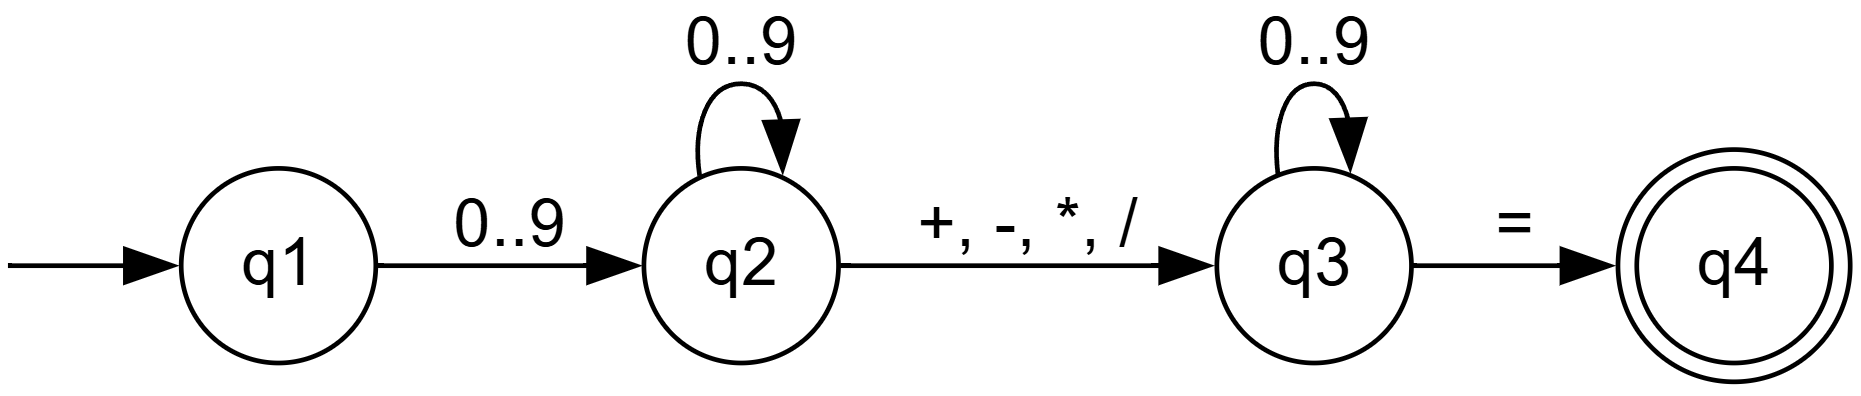
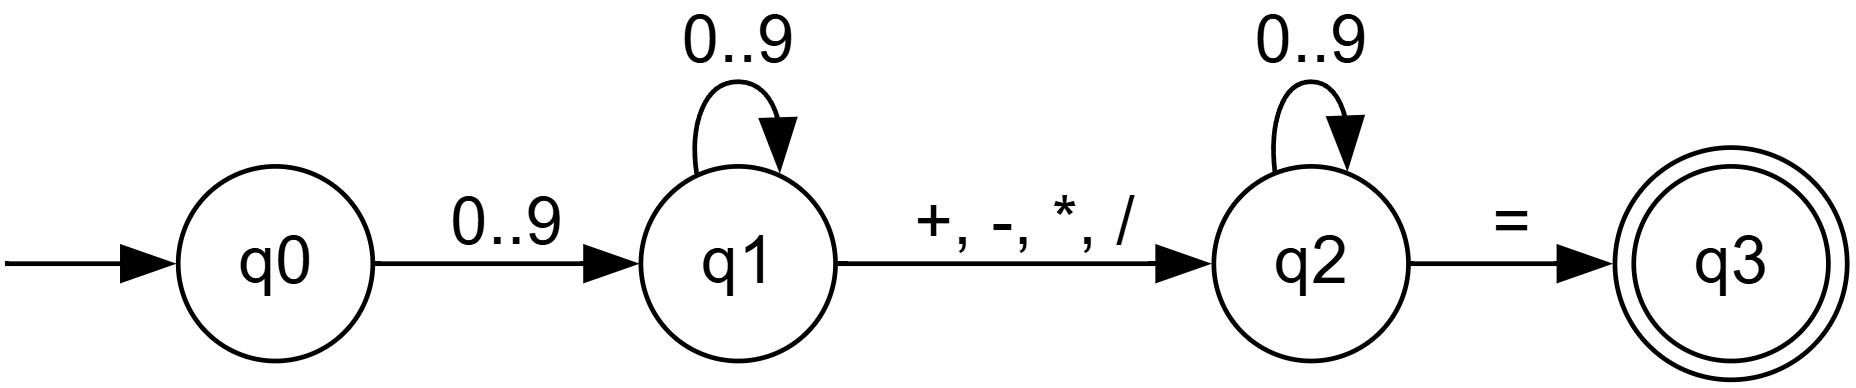
Lecture about FSM fixed

diff --git a/s1/09.html b/s1/09.html
@@ -64,7 +64,7 @@
                         <ul>
                             <li>Частой задачей в вычислительной технике является обработка некоторых последовательностей</li>
                             <li>Мы уже рассмотрели сортировку, поиск и т.п.</li>
-                            <li>Но последовательности могут содержать не только неокторые объекты, но также, например, действия пользователя</li>
+                            <li>Но последовательности могут содержать не только неокторые сравнимые объекты, но также, например, действия пользователя</li>
                             <li>В таких случаях важно понять, является ли заданная последовательность &laquo;действий&raquo; <b>корректной</b> для конкретного исполнителя</li>
                         </ul>
                     </section>
@@ -167,8 +167,8 @@
                     <section>
                         <h4>Состояния</h4>
                         <ul>
-                            <li>Состояние $q1$ называется <b>начальным</b>, это точка входа</li>
-                            <li>Состояние $q4$ — <b>конечное</b> или <b>принимающее</b></li>
+                            <li>Состояние $q_0$ называется <b>начальным</b>, это точка входа</li>
+                            <li>Состояние $q_3$ — <b>конечное</b> или <b>принимающее</b></li>
                             <li>Когда автомат достигает конечного состояния, считав при этом всю строку, это значит, что строка <b>принята</b></li>
                         </ul>
                     </section>
@@ -225,11 +225,11 @@
                     <section>
                         <h3>Пример функции переходов</h3>
                         <p align="left">Приведём пример функции переходов для калькулятора</p>
-                        <p>$\delta(q_1, 0..9) = q_2$</p>
+                        <p>$\delta(q_0, 0..9) = q_1$</p>
+                        <p>$\delta(q_1, 0..9) = q_1$</p>
+                        <p>$\delta(q_1, \{+, -, *, /\}) = q_2$</p>
                         <p>$\delta(q_2, 0..9) = q_2$</p>
-                        <p>$\delta(q_2, \{+, -, *, /\}) = q_3$</p>
-                        <p>$\delta(q_3, 0..9) = q_3$</p>
-                        <p>$\delta(q_3, =) = q_4$</p>
+                        <p>$\delta(q_2, =) = q_3$</p>
                     </section>
                     <section>
                         <h3>Замечание</h3>
@@ -240,9 +240,26 @@
                         </ul>
                     </section>
                     <section>
+                        <h3>Табличное представление</h3>
+                        <table>
+                            <tr>
+                                <th>$q_i \backslash \Sigma_j$</th> <th>$0$</th> <th>$1$</th> <th>$2$</th> <th>$3$</th> <th>$...$</th> <th>$+$</th> <th>$-$</th> <th>$*$</th> <th>$/$</th> <th>$=$</th>
+                            </tr>
+                            <tr>
+                                <th>$q_0$</th> <td>$q_1$</td> <td>$q_1$</td> <td>$q_1$</td> <td>$q_1$</td> <td>$...$</td> <td>-</td> <td>-</td> <td>-</td> <td>-</td> <td>-</td>
+                            </tr>
+                            <tr>
+                                <th>$q_1$</th> <td>$q_1$</td> <td>$q_1$</td> <td>$q_1$</td> <td>$q_1$</td> <td>$...$</td> <td>$q_2$</td> <td>$q_2$</td> <td>$q_2$</td> <td>$q_2$</td> <td>-</td>
+                            </tr>
+                            <tr>
+                                <th>$q_2$</th> <td>$q_2$</td> <td>$q_2$</td> <td>$q_2$</td> <td>$q_2$</td> <td>$...$</td> <td>-</td> <td>-</td> <td>-</td> <td>-</td> <td>$q_3$</td>
+                            </tr>
+                        </table>
+                    </section>
+                    <section>
                         <h3>Определение</h3>
                         <ul>
-                            <li>Итак, детерминированный конечный атомат представлен следующей пятёркой:</li>
+                            <li>Итак, детерминированный конечный автомат представлен следующей пятёркой:</li>
                             $$M = (Q, q_0, A, \Sigma, \delta)$$
                             <li>Автомат начинает работу в начальном состоянии и работает, пока не закончится строка или не встретится &laquo;неожиданный&raquo; символ</li>
                             <li>Если в конце работы автомата он находится в конечном состоянии, строка принимается</li>
@@ -428,12 +445,72 @@
                 </section>
                 <section>
                     <section>
+                        <h3>Другие применения конечных автоматов</h3>
+                        <ul>
+                            <li>Как уже было отмечено, конечные автоматы имеют множество применений</li>
+                            <li>Ещё одно из них — <b>регулярные выражения</b></li>
+                            <li>В действительности для регулярных выражений строятся более сложные конечные автоматы (недетерминированные)</li>
+                            <li>Однако в данной лекции мы ограничимся упрощённым вариантом</li>
+                        </ul>
+                    </section>
+                    <section>
+                        <h3>Упрощение</h3>
+                        <ul>
+                            <li>Мы рассмотрим упрощённый аналог регулярных выражений — глобы (globs)</li>
+                            <li>Это специальные выражения, которые используются командными оболочками (например, bash) для выполнения команд над группами файлов</li>
+                            <li>К примеру, чтобы скопировать все текстовые файлы в папку folder, в bash можно написать</li>
+                        </ul>
+                        <pre><code data-trim class="bash">
+                            cp *.txt folder
+                        </code></pre>
+                    </section>
+                    <section>
+                        <h3>Обработка глобов</h3>
+                        <ul>
+                            <li>В действительности при обработке глобов ДКА не используются</li>
+                            <li>Однако теоретически нет никаких препятствий такой реализации</li>
+                            <li>Символ $*$ означает любое количество любых символов ($0$ или больше)</li>
+                            <li>Символ $?$ означает ровно один любой символ</li>
+                        </ul>
+                    </section>
+                    <section>
+                        <h3>Пример</h3>
+                        <p align="left">Попробуем построить конечный автомат, соответствующий выражению <code data-trim class="bash">*.t?t</code></p>
+                        <p>
+                            <img src="09/glob_match_simple.png">
+                        </p>
+                    </section>
+                    <section>
+                        <h3>Обсуждение</h3>
+                        <ul>
+                            <li>Наш автомат примет строки <code data-trim class="bash">file.txt</code>, <code data-trim class="bash">aaa.tst</code>, <code data-trim class="bash">0123.tat</code> и т.д.</li>
+                            <li>Однако этой функциональности недостаточно</li>
+                            <li>Выражение <code data-trim class="bash">*.t?t</code> соответствует также строкам <code data-trim class="bash">file.tat.tot.txt</code>, <code data-trim class="bash">abc.tbt.tct</code> и т.п.</li>
+                            <li>Но наш автомат не принимает такие строки</li>
+                        </ul>
+                    </section>
+                    <section>
+                        <h3>Модификация</h3>
+                        <p align="left">Модифицируем наш автомат, чтобы он корректно принимал все строки, соответствующие выражению <code data-trim class="bash">*.t?t</code></p>
+                        <p>
+                            <img src="09/glob_match_mod.png">
+                        </p>
+                    </section>
+                </section>
+                <section>
+                    <section>
                         <h4>Полезные источники</h4>
                         <ol>
                             <li><b>RU</b> Томас Х. Кормен, Чарльз И. Лейзерсон, Рональд Л. Ривест, Клиффорд Штайн. Алгоритмы: построение и анализ, 3-е издание. Раздел 32.3. – Основная книга нашего курса.</li>
                             <li><b>RU</b> А. Ахо, Дж. Ульман. Теория синтаксического анализа, перевода и компиляции. — Очень подробный разбор с математическими выводами.</li>
-                            <li><b>EN</b> <a href='https://magjac.com/graphviz-visual-editor/?dot=digraph%20finite_state_machine%20%7B%0A%09fontname%3D%22Helvetica%2CArial%2Csans-serif%22%0A%09node%20%5Bfontname%3D%22Helvetica%2CArial%2Csans-serif%22%5D%0A%09edge%20%5Bfontname%3D%22Helvetica%2CArial%2Csans-serif%22%5D%0A%09rankdir%3DLR%3B%0A%09node%20%5Bshape%20%3D%20doublecircle%5D%3B%20q5%3B%0A%09node%20%5Bshape%20%3D%20circle%5D%3B%0A%09%0A%20%20%20%20source%20%5Blabel%3D%22%22%2C%20shape%3Dnone%2C%20height%3D0%2C%20width%3D0%2C%20style%3Dinvis%5D%3B%0A%09%0A%09source%20-%3E%20q0%3B%0A%09q0%20-%3E%20q1%20%5Blabel%20%3D%20%22a%22%5D%3B%0A%09q1%20-%3E%20q2%20%5Blabel%20%3D%20%22b%22%5D%3B%0A%09q2%20-%3E%20q3%20%5Blabel%20%3D%20%22a%22%5D%3B%0A%09q3%20-%3E%20q4%20%5Blabel%20%3D%20%22b%22%5D%3B%0A%09q4%20-%3E%20q5%20%5Blabel%20%3D%20%22c%22%5D%3B%0A%09q4%20-%3E%20q3%20%5Blabel%20%3D%20%22a%22%2C%20constraint%20%3D%20false%5D%3B%0A%09q5%20-%3E%20q1%20%5Blabel%20%3D%20%22a%22%2C%20constraint%20%3D%20false%5D%3B%0A%09q3%20-%3E%20q1%20%5Blabel%20%3D%20%22a%22%2C%20constraint%20%3D%20false%5D%3B%0A%09q1%20-%3E%20q1%20%5Blabel%20%3D%20%22a%22%2C%20constraint%20%3D%20false%5D%3B%0A%7D'>Удобный конструктор</a> конечных автоматов</li>
                             <li><b>EN</b> <a href='https://swtch.com/~rsc/regexp/regexp1.html'>Статья</a> о реализации регулярных выражений в различных ЯП</li>
+                        </ol>
+                    </section>
+                    <section>
+                        <h4>Полезные источники</h4>
+                        <ol start="4">
+                            <li><b>EN</b> <a href='https://magjac.com/graphviz-visual-editor/?dot=digraph%20finite_state_machine%20%7B%0A%09fontname%3D%22Helvetica%2CArial%2Csans-serif%22%0A%09node%20%5Bfontname%3D%22Helvetica%2CArial%2Csans-serif%22%5D%0A%09edge%20%5Bfontname%3D%22Helvetica%2CArial%2Csans-serif%22%5D%0A%09rankdir%3DLR%3B%0A%09node%20%5Bshape%20%3D%20doublecircle%5D%3B%20q5%3B%0A%09node%20%5Bshape%20%3D%20circle%5D%3B%0A%09%0A%20%20%20%20source%20%5Blabel%3D%22%22%2C%20shape%3Dnone%2C%20height%3D0%2C%20width%3D0%2C%20style%3Dinvis%5D%3B%0A%09%0A%09source%20-%3E%20q0%3B%0A%09q0%20-%3E%20q1%20%5Blabel%20%3D%20%22a%22%5D%3B%0A%09q1%20-%3E%20q2%20%5Blabel%20%3D%20%22b%22%5D%3B%0A%09q2%20-%3E%20q3%20%5Blabel%20%3D%20%22a%22%5D%3B%0A%09q3%20-%3E%20q4%20%5Blabel%20%3D%20%22b%22%5D%3B%0A%09q4%20-%3E%20q5%20%5Blabel%20%3D%20%22c%22%5D%3B%0A%09q4%20-%3E%20q3%20%5Blabel%20%3D%20%22a%22%2C%20constraint%20%3D%20false%5D%3B%0A%09q5%20-%3E%20q1%20%5Blabel%20%3D%20%22a%22%2C%20constraint%20%3D%20false%5D%3B%0A%09q3%20-%3E%20q1%20%5Blabel%20%3D%20%22a%22%2C%20constraint%20%3D%20false%5D%3B%0A%09q1%20-%3E%20q1%20%5Blabel%20%3D%20%22a%22%2C%20constraint%20%3D%20false%5D%3B%0A%7D'>Пример</a> конечного автомата с лекции, доступный для изменения</li>
+                            <li><b>EN</b> <a href='https://magjac.com/graphviz-visual-editor/?dot=digraph%20finite_state_machine%20%7B%0D%0A%09fontname%3D%22Helvetica%2CArial%2Csans-serif%22%0D%0A%09node%20%5Bfontname%3D%22Helvetica%2CArial%2Csans-serif%22%5D%0D%0A%09edge%20%5Bfontname%3D%22Helvetica%2CArial%2Csans-serif%22%5D%0D%0A%09rankdir%3DLR%3B%0D%0A%09node%20%5Bshape%20%3D%20doublecircle%5D%3B%20q4%3B%0D%0A%09node%20%5Bshape%20%3D%20circle%5D%3B%0D%0A%09%0D%0A%09source%20%5Blabel%3D%22%22%2C%20shape%3Dnone%2C%20height%3D0%2C%20width%3D0%2C%20style%3Dinvis%5D%3B%0D%0A%09source%20-%3E%20q0%0D%0A%09q0%20-%3E%20q1%20%5Blabel%20%3D%20%22.%22%20fontsize%3D60.0%20fontname%3D%22Times-Roman%22%5D%3B%0D%0A%09q0%20-%3E%20q0%20%5Blabel%20%3D%20%22%26Sigma%3B%5C%5C%7B.%7D%22%20fontsize%3D24.0%20fontname%3D%22Times-Roman%22%5D%3B%0D%0A%09q1%20-%3E%20q2%20%5Blabel%20%3D%20%22t%22%20fontsize%3D24.0%20fontname%3D%22Times-Roman%22%5D%3B%0D%0A%09q2%20-%3E%20q3%20%5Blabel%20%3D%20%22%26Sigma%3B%22%20fontsize%3D24.0%20fontname%3D%22Times-Roman%22%5D%3B%0D%0A%09q3%20-%3E%20q4%20%5Blabel%20%3D%20%22t%22%20fontsize%3D24.0%20fontname%3D%22Times-Roman%22%20constraint%3Dfalse%2C%5D%3B%0D%0A%09%0D%0A%09q1%20-%3E%20q0%20%5Blabel%20%3D%20%22%26Sigma%3B%5C%5C%7Bt%7D%22%20fontsize%3D24.0%20fontname%3D%22Times-Roman%22%5D%3B%0D%0A%09q3%20-%3E%20q0%20%5Blabel%20%3D%20%22%26Sigma%3B%5C%5C%7Bt%7D%22%20fontsize%3D24.0%20fontname%3D%22Times-Roman%22%5D%3B%0D%0A%09q4%20-%3E%20q0%20%5Blabel%20%3D%20%22%26Sigma%3B%22%20fontsize%3D24.0%20fontname%3D%22Times-Roman%22%20constraint%3Dfalse%5D%3B%0D%0A%7D'>Пример</a> другого конечного автомата с лекции, доступный для изменения</li>
                         </ol>
                     </section>
                 </section>
